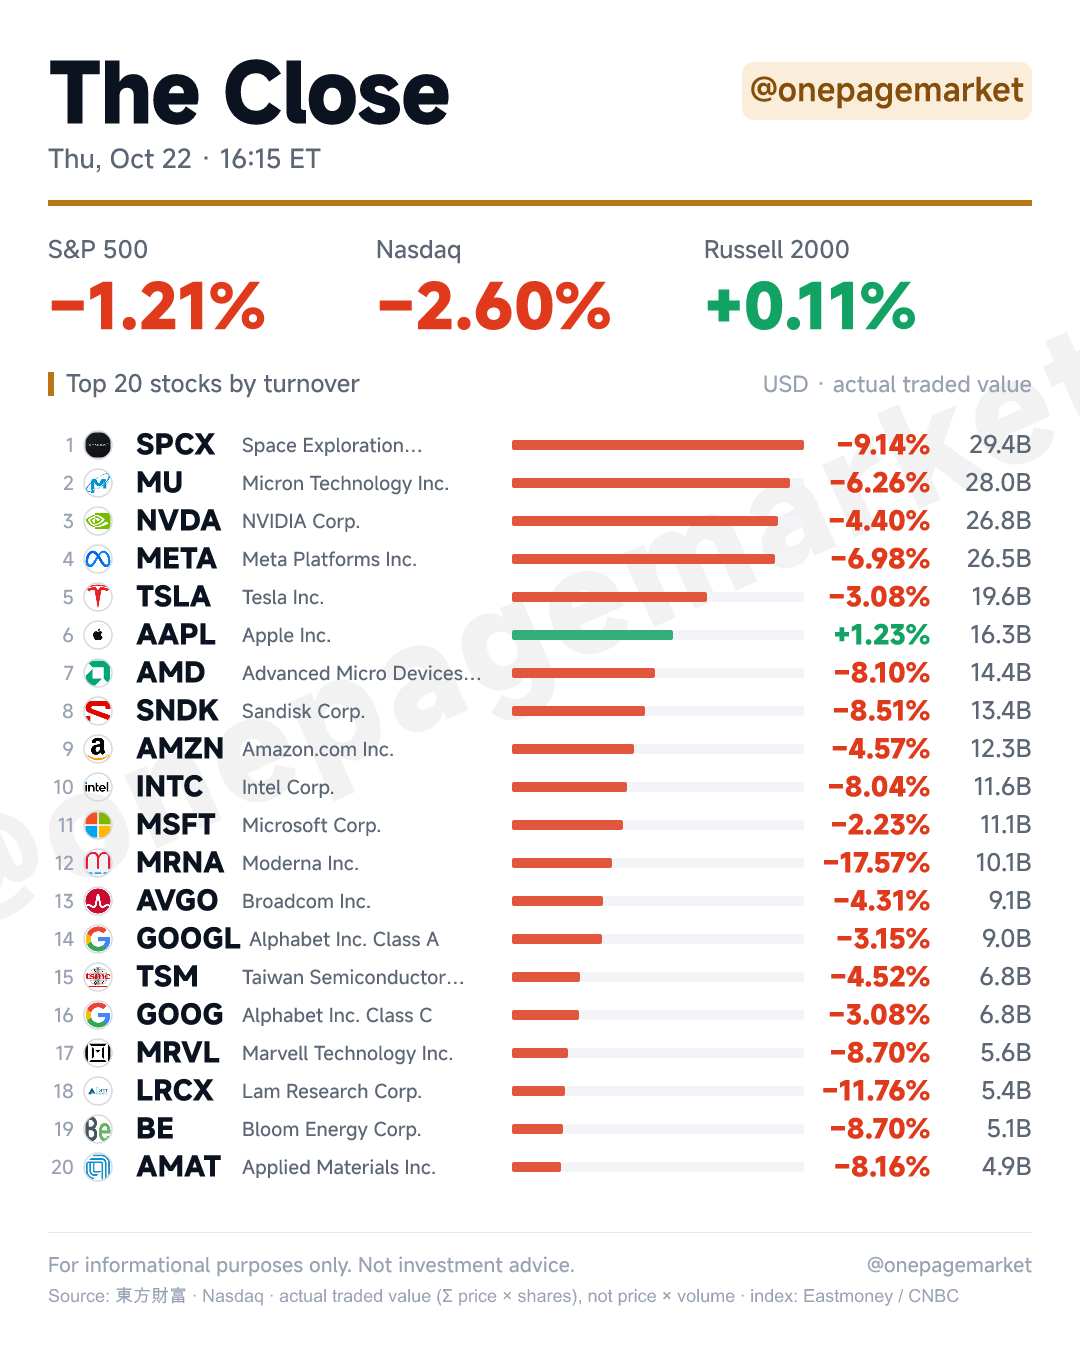
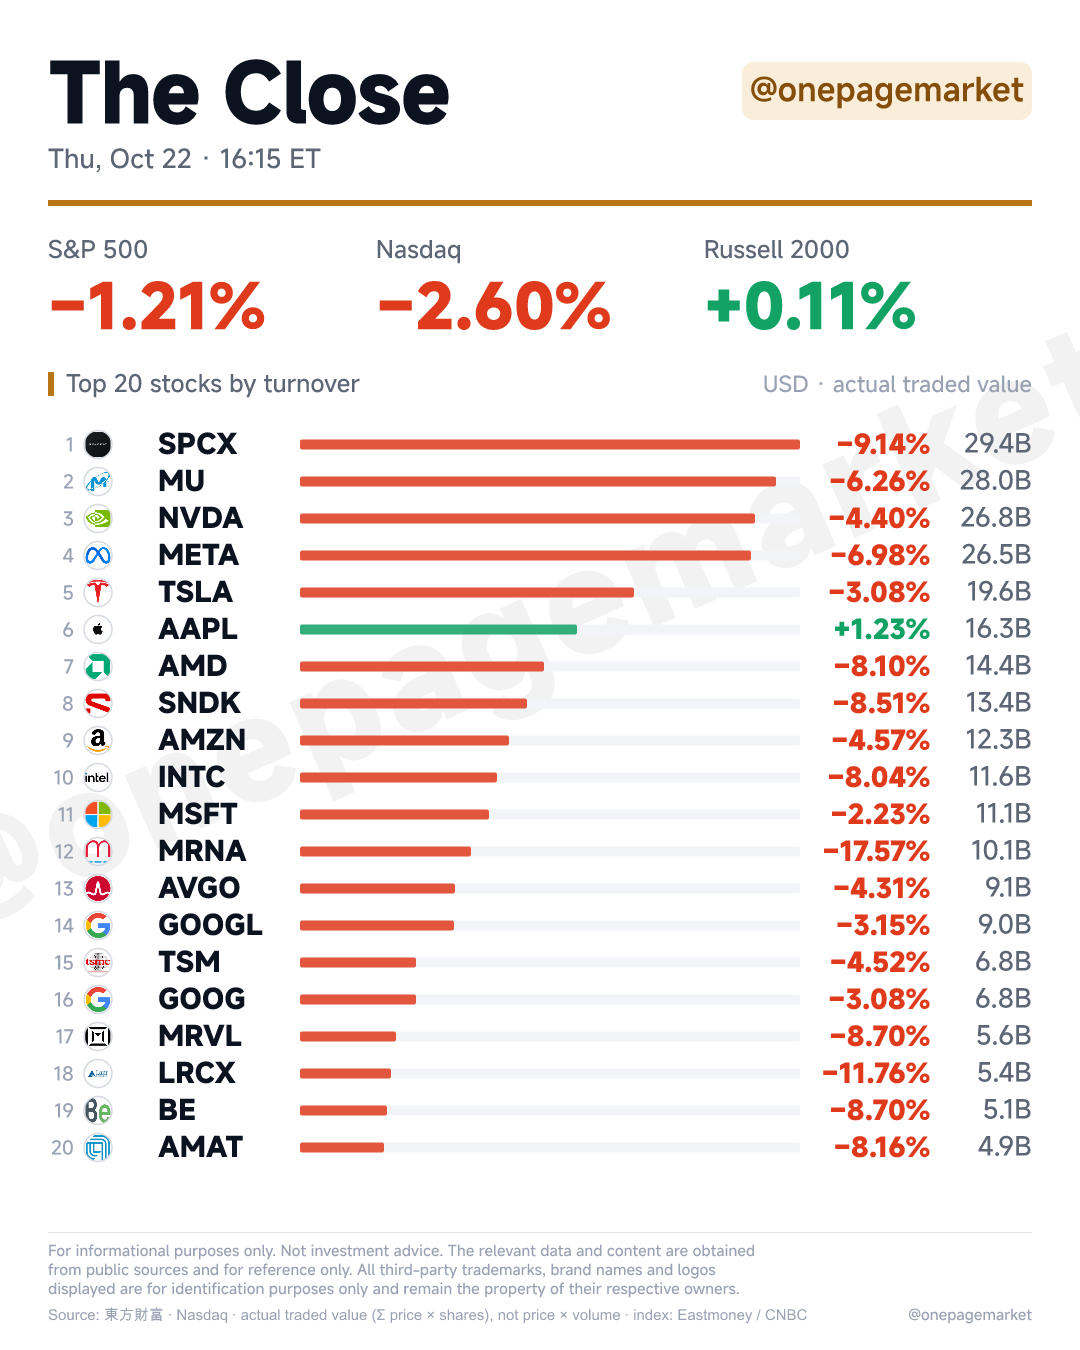
OPM: 统一声明文案 + The Close 只留代码、成交额字级对齐涨跌幅
- 新增 scripts/lib/disclaimer.js：统一免责声明（三行，MiSans 15px 实测断行 732/689/708）
  及 pushFooter()，On Deck / The Close / Winners / Week Ahead / Who Owns X 全部走这一份
- build_close.js: 去掉公司名（只留代码），条形左移加长到 500px，
  成交额 24→26px 与涨跌幅同号
- ownership_card.js / build_ownership.js / build_pages.js 页脚改用 pushFooter
- fetch_close.py / fetch_pages.py 写出的 disclaimer 同步为长版

diff --git a/scripts/build_close.js b/scripts/build_close.js
@@ -14,6 +14,7 @@
 const fs = require('fs');
 const path = require('path');
 const { Resvg } = require('@resvg/resvg-js');
+const { pushFooter } = require('./lib/disclaimer');
 
 const BASE = path.join(__dirname, '..');
 const DATA_PATH = process.env.CLOSE_DATA || path.join(BASE, 'data', 'close.json');
@@ -72,45 +73,18 @@ const longDate = (iso) => {
   if (isNaN(d)) return iso;
   return d.toLocaleDateString('en-US', { weekday: 'short', month: 'short', day: 'numeric' });
 };
-// 公司名瘦身：去掉 "Common Stock" / "Class A Capital Stock" 尾巴、長詞縮寫，
-// 再按估算字寬截斷——且**在詞邊界截**（"Advanced Micro Devices…" 而非 "Advanced Micro Devic…"）
-const fitName = (s, maxW, size) => {
-  let str = String(s || '')
-    // 只去掉尾巴的 "Common Stock" / "Capital Stock"，保留 Class A/B/C
-    // （GOOGL 與 GOOG 都是 Alphabet，靠 Class A / Class C 才分得出來）
-    .replace(/\s+(Common|Capital) Stock$/i, '')
-    .replace(/\bCorporation\b/gi, 'Corp.')
-    .replace(/\bIncorporated\b/gi, 'Inc.')
-    .trim();
-  const w = (x) => x.length * size * 0.56;
-  if (w(str) <= maxW) return str;
-  const full = str;
-  while (str.length > 1 && w(str + '\u2026') > maxW) str = str.slice(0, -1);
-  // 只在「剛好切在半個單詞中間」時才退到詞邊界；
-  // 若截斷點本來就落在詞尾（下一個字元是空白）就保留整詞，避免把 "Taiwan Semiconductor" 砍成 "Taiwan"
-  if (full.charAt(str.length) !== ' ') {
-    const sp = str.lastIndexOf(' ');
-    if (sp > 3) str = str.slice(0, sp);
-  }
-  // 停在 "Inc." / "Corp." 這種縮寫結尾時讀起來已是完整公司名，不再補省略號
-  if (/\.$/.test(str)) return str;
-  return str.replace(/[\s,\-]+$/, '') + '\u2026';
-};
-// 代碼寬度估算（MiSans Bold 大寫，advance ≈ 0.72em）
-const tickerW = (s, size) => String(s || '').length * size * 0.72;
 
-// ---------- 版面常數（單列 · 20 行） ----------
+// ---------- 版面常數（單列 · 20 行 · 只顯示代碼） ----------
 const CW = W - M * 2;            // 984
-const ROW_H = 38;
+const ROW_H = 37;
 const RANK_X = M + 26;           // 74（右對齊）
 const LOGO_X = M + 36;           // 84
 const LOGO_S = 28;
-const TICKER_X = M + 88;         // 136
-const NAME_X = M + 194;          // 242
-const NAME_SIZE = 19;
-const BAR_X = 512, BAR_MAX = 292;
+const TICKER_X = M + 110;        // 158
+const BAR_X = 300, BAR_MAX = 500;
 const PCT_X = 930;               // 右對齊
 const AMT_X = W - M;             // 1032（右對齊）
+const PCT_SIZE = 26, AMT_SIZE = 26;   // 成交額字級與漲跌幅對齊
 
 const rows = (D.volume && D.volume.rows) || [];
 const maxDV = Math.max(1, ...rows.map((r) => r.dollar_volume || 0));
@@ -168,29 +142,22 @@ rows.forEach((r, i) => {
   svg.push(t(RANK_X, mid + 7, String(i + 1), { size: 19, fill: C.dim, anchor: 'end' }));
   svg.push(logoAt(r.ticker, LOGO_X, mid, LOGO_S));
   svg.push(t(TICKER_X, mid + 9, r.ticker, { size: 27, weight: 700 }));
-  if (r.name) {
-    // 名稱起點跟著代碼長度浮動（GOOGL / GOOG 這種 5 碼才不會黏上去）
-    const nx = Math.max(NAME_X, Math.round(TICKER_X + tickerW(r.ticker, 27) + 16));
-    svg.push(t(nx, mid + 7, fitName(r.name, BAR_X - nx - 18, NAME_SIZE),
-               { size: NAME_SIZE, fill: C.gray }));
-  }
   // 條長 = 成交額；顏色 = 當日漲跌方向
   const bw = Math.max(6, Math.round((r.dollar_volume || 0) / maxDV * BAR_MAX));
   svg.push(`<rect x="${BAR_X}" y="${mid - 5}" width="${BAR_MAX}" height="10" rx="2" fill="${C.track}"/>`);
   svg.push(`<rect x="${BAR_X}" y="${mid - 5}" width="${bw}" height="10" rx="2" fill="${pctColor(r.pct)}" opacity="0.85"/>`);
   // 漲跌幅
-  svg.push(t(PCT_X, mid + 9, pctStr(r.pct), { size: 26, weight: 700, fill: pctColor(r.pct), anchor: 'end' }));
-  // 成交額
-  svg.push(t(AMT_X, mid + 8, bill(r.dollar_volume), { size: 24, fill: C.gray, anchor: 'end' }));
+  svg.push(t(PCT_X, mid + 9, pctStr(r.pct), { size: PCT_SIZE, weight: 700, fill: pctColor(r.pct), anchor: 'end' }));
+  // 成交額（字級與漲跌幅對齊）
+  svg.push(t(AMT_X, mid + 8, bill(r.dollar_volume), { size: AMT_SIZE, fill: C.gray, anchor: 'end' }));
 });
 
-// ---------- 頁腳 ----------
-svg.push(`<rect x="${M}" y="${H - 118}" width="${CW}" height="1" fill="${C.line}"/>`);
-svg.push(t(M, H - 78, D.disclaimer || '', { size: 20, fill: C.dim }));
-svg.push(t(W - M, H - 78, handle, { size: 20, fill: C.dim, anchor: 'end' }));
+// ---------- 頁腳（統一聲明三行 + 來源/handle 一行）----------
 const metricNote = (D.volume && D.volume.metric_note) || 'actual traded value';
-svg.push(t(M, H - 48, `Source: ${D.source || 'Eastmoney · Nasdaq'} · ${metricNote} · index: Eastmoney / CNBC`,
-           { size: 18, fill: C.dim }));
+pushFooter(t, svg, {
+  M, W, H, C, handle,
+  meta: `Source: ${D.source || 'Eastmoney · Nasdaq'} · ${metricNote} · index: Eastmoney / CNBC`,
+});
 
 svg.push('</svg>');
 svg.splice(1, 0, `<defs>${defs.join('')}</defs>`);

diff --git a/scripts/lib/disclaimer.js b/scripts/lib/disclaimer.js
@@ -1,0 +1,43 @@
+/**
+ * OPM 卡統一聲明（2026-10-23 阿澤定稿）
+ *
+ * 所有 OPM 格式卡片（On Deck / The Close / Winners / Week Ahead / Who Owns X）
+ * 頁腳必須用這一份文字，不要各自寫死。
+ *
+ * 斷行：用 MiSans-Regular 15px 實測寬度做「最小可容納寬度」三等分，
+ *       三行實際寬度 732 / 689 / 708px（卡寬 984，左右各留 48）。
+ *       改文字或字級就要重新量一次，否則會溢出或出現第四行。
+ */
+const DISCLAIMER =
+  'For informational purposes only. Not investment advice. The relevant data and content ' +
+  'are obtained from public sources and for reference only. All third-party trademarks, ' +
+  'brand names and logos displayed are for identification purposes only and remain the ' +
+  'property of their respective owners.';
+
+const DISCLAIMER_LINES = [
+  'For informational purposes only. Not investment advice. The relevant data and content are obtained',
+  'from public sources and for reference only. All third-party trademarks, brand names and logos',
+  'displayed are for identification purposes only and remain the property of their respective owners.',
+];
+
+const DISCLAIMER_SIZE = 15;
+const DISCLAIMER_LH = 19;       // 行距
+
+/**
+ * 在 svg push 陣列裡畫聲明（三行）+ 最後一行左邊放 meta、右邊放 handle
+ * @param {(x,y,s,opt)=>string} t  文字產生器
+ * @param {string[]} a             svg 片段陣列
+ * @param {object} o               { M, W, H, C, meta, handle }
+ */
+function pushFooter(t, a, o) {
+  const { M, W, H, C } = o;
+  a.push(`<rect x="${M}" y="${H - 118}" width="${W - M * 2}" height="1" fill="${C.line}"/>`);
+  DISCLAIMER_LINES.forEach((line, i) => {
+    a.push(t(M, H - 94 + i * DISCLAIMER_LH, line, { size: DISCLAIMER_SIZE, fill: C.dim }));
+  });
+  const yMeta = H - 94 + DISCLAIMER_LINES.length * DISCLAIMER_LH + 7;
+  if (o.meta) a.push(t(M, yMeta, o.meta, { size: 15, fill: C.dim }));
+  if (o.handle) a.push(t(W - M, yMeta, o.handle, { size: 15, fill: C.dim, anchor: 'end' }));
+}
+
+module.exports = { DISCLAIMER, DISCLAIMER_LINES, DISCLAIMER_SIZE, DISCLAIMER_LH, pushFooter };

diff --git a/scripts/build_ownership.js b/scripts/build_ownership.js
@@ -9,6 +9,7 @@
 const fs = require('fs');
 const path = require('path');
 const { Resvg } = require('@resvg/resvg-js');
+const { pushFooter } = require('./lib/disclaimer');
 
 const BASE = path.join(__dirname, '..');
 const D = JSON.parse(fs.readFileSync(path.join(BASE, 'data', 'ownership-nvda.json'), 'utf8'));
@@ -216,11 +217,11 @@ drawLabel(segByName['T. Rowe Price'], 780, 235, 'middle');           // 上右
 drawLabel(segByName['Morgan Stanley'], 920, 355, 'middle');          // 右上
 drawLabel(segByName['Invesco'], 960, 475, 'middle');                 // 右上
 
-/* --- 頁腳 --- */
-a.push(`<rect x="${M}" y="${H - 118}" width="${W - M * 2}" height="1" fill="${C.line}"/>`);
-a.push(t(M, H - 78, 'For informational purposes only. Not investment advice.', { size: 20, fill: C.dim }));
-a.push(t(W - M, H - 78, handle, { size: 20, fill: C.dim, anchor: 'end' }));
-a.push(t(M, H - 48, `Data as of ${D.data_as_of} · Source: ${D.source}`, { size: 18, fill: C.dim }));
+/* --- 頁腳（統一聲明三行 + 來源/handle 一行）--- */
+pushFooter(t, a, {
+  M, W, H, C, handle,
+  meta: `Data as of ${D.data_as_of} · Source: ${D.source}`,
+});
 
 a.push('</svg>');
 a.splice(1, 0, `<defs>${defs.join('')}</defs>`);

diff --git a/scripts/lib/ownership_card.js b/scripts/lib/ownership_card.js
@@ -11,6 +11,7 @@
 const fs = require('fs');
 const path = require('path');
 const { Resvg } = require('@resvg/resvg-js');
+const { pushFooter } = require('./disclaimer');
 
 const BASE = path.join(__dirname, '..', '..');
 
@@ -643,11 +644,11 @@ module.exports = function build(OPTS) {
     a.push(`<g>${O.figure.svg({ defs, uid: () => uid++, t, C, W, H })}</g>`);
   }
 
-  /* --- 頁腳 --- */
-  a.push(`<rect x="${M}" y="${H - 118}" width="${W - M * 2}" height="1" fill="${C.line}"/>`);
-  a.push(t(M, H - 78, 'For informational purposes only. Not investment advice.', { size: 20, fill: C.dim }));
-  a.push(t(W - M, H - 78, handle, { size: 20, fill: C.dim, anchor: 'end' }));
-  a.push(t(M, H - 48, `Data as of ${D.data_as_of} · Source: ${D.source}`, { size: 18, fill: C.dim }));
+  /* --- 頁腳（統一聲明三行 + 來源/handle 一行）--- */
+  pushFooter(t, a, {
+    M, W, H, C, handle,
+    meta: `Data as of ${D.data_as_of} · Source: ${D.source}`,
+  });
 
   a.push('</svg>');
   a.splice(1, 0, `<defs>${defs.join('')}</defs>`);

diff --git a/scripts/build_pages.js b/scripts/build_pages.js
@@ -5,6 +5,7 @@
 const fs = require('fs');
 const path = require('path');
 const { Resvg } = require('@resvg/resvg-js');
+const { pushFooter } = require('./lib/disclaimer');
 
 const BASE = path.join(__dirname, '..');
 const D = JSON.parse(fs.readFileSync(process.env.PAGES_DATA || path.join(BASE, 'data', 'pages.json'), 'utf8'));
@@ -96,10 +97,11 @@ function scaffold(title, sub) {
   return a;
 }
 function finish(a) {
-  a.push(`<rect x="${M}" y="${H - 118}" width="${CW}" height="1" fill="${C.line}"/>`);
-  a.push(t(M, H - 78, D.disclaimer || '', { size: 20, fill: C.dim }));
-  a.push(t(W - M, H - 78, D.handle || '@onepagemarket', { size: 20, fill: C.dim, anchor: 'end' }));
-  a.push(t(M, H - 48, `Source: ${D.source || ''}`, { size: 18, fill: C.dim }));
+  pushFooter(t, a, {
+    M, W, H, C,
+    handle: D.handle || '@onepagemarket',
+    meta: `Source: ${D.source || ''}`,
+  });
   a.push('</svg>');
   return [a[0], `<defs>${defs.join('')}</defs>`, ...a.slice(1)].join('\n');
 }

diff --git a/scripts/fetch_close.py b/scripts/fetch_close.py
@@ -31,6 +31,13 @@ OUT = os.path.join(BASE, 'data', 'close.json')
 UA = 'Mozilla/5.0 (Macintosh; Intel Mac OS X 10_15_7) AppleWebKit/537.36 (KHTML, like Gecko) Chrome/124 Safari/537.36'
 
 TOP_N = 20
+# OPM 卡統一聲明（2026-10-23 阿澤定稿）——與 scripts/lib/disclaimer.js 保持一字不差
+DISCLAIMER = (
+    'For informational purposes only. Not investment advice. The relevant data and content '
+    'are obtained from public sources and for reference only. All third-party trademarks, '
+    'brand names and logos displayed are for identification purposes only and remain the '
+    'property of their respective owners.'
+)
 NASDAQ = 'https://api.nasdaq.com/api'
 EM_UT = 'fa5fd1943c7b386f172d6893dbfba10b'
 EM_CLIST = 'https://push2.eastmoney.com/api/qt/clist/get'
@@ -336,7 +343,7 @@ def main():
             'rows': top,
         },
         'handle': '@onepagemarket',
-        'disclaimer': 'For informational purposes only. Not investment advice.',
+        'disclaimer': DISCLAIMER,
     }
 
     os.makedirs(os.path.dirname(OUT), exist_ok=True)

diff --git a/scripts/fetch_pages.py b/scripts/fetch_pages.py
@@ -214,7 +214,10 @@ def main():
 
     data = {
         'handle': '@onepagemarket',
-        'disclaimer': 'For informational purposes only. Not investment advice.',
+        'disclaimer': ('For informational purposes only. Not investment advice. The relevant data and content '
+                       'are obtained from public sources and for reference only. All third-party trademarks, '
+                       'brand names and logos displayed are for identification purposes only and remain the '
+                       'property of their respective owners.'),
         'source': 'Nasdaq official calendar & screener',
         'generated_at': datetime.now().strftime('%Y-%m-%d %H:%M'),
         'week_label': f"{days[0].strftime('%b %d')} – {days[-1].strftime('%b %d')}",
